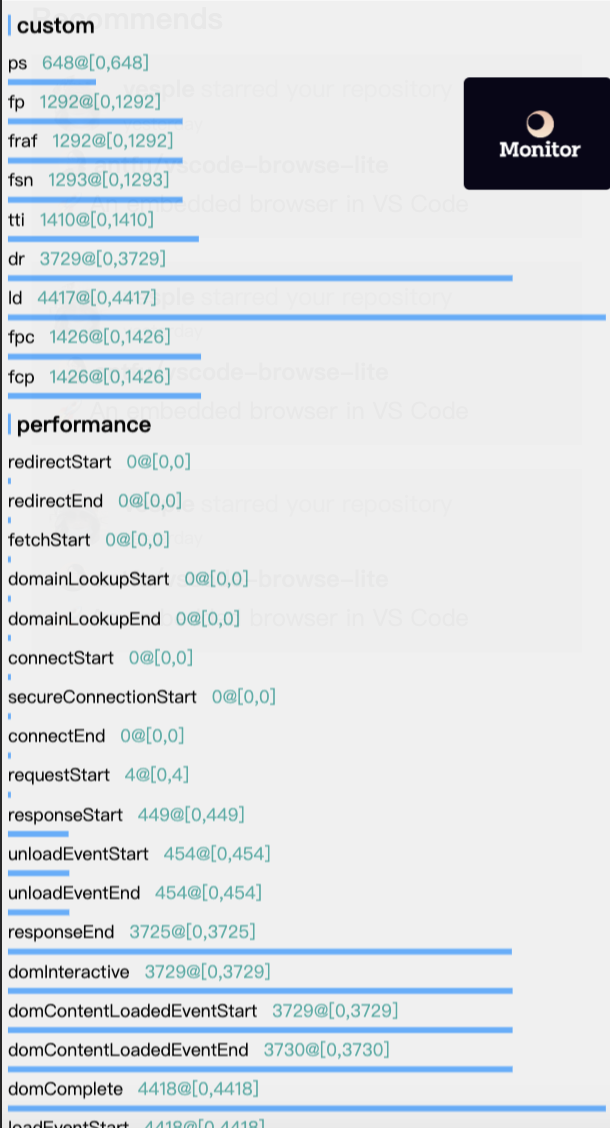
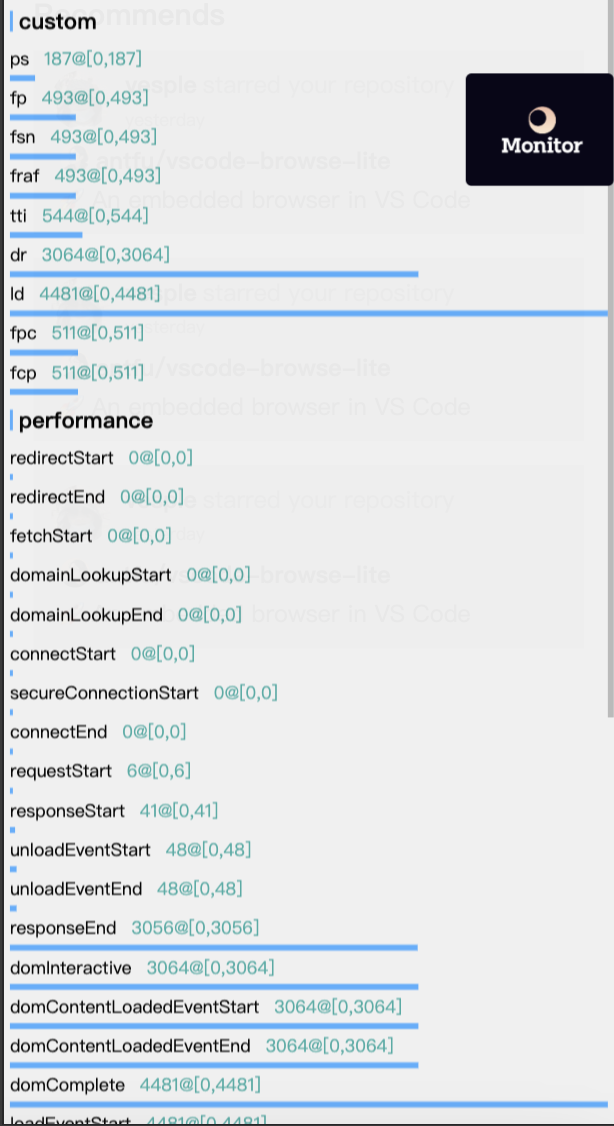
fix: build

Changed region(s): [[0.0, 0.0, 1.0, 1.0]]

diff --git a/packages/core/configs/rspack.server.config.js b/packages/core/configs/rspack.server.config.js
@@ -11,12 +11,13 @@ const { APP_PATH } = require("../constant");
 const WebpackDemandEntryPlugin = require("../cmd/dev/lazy-compiler/plugin");
 const { pageEntries } = require("./entry");
 const pageConfig = require("./page.config");
+const { __DEV__ } = require("../utils/node-env");
 
 /**
  * @type {import("webpack").Configuration}
  */
 const defaultConfig = {
-  mode: process.env.NODE_ENV || "development",
+  mode: __DEV__ ? "development" : "production",
   node: false,
   entry: {
     index: [getServerEntry(), path.resolve(cwd, "./server-entry.tsx")],
@@ -80,9 +81,10 @@ const defaultConfig = {
   },
   plugins: [
     new rspack.ProgressPlugin({ prefix: "server" }),
-    new WebpackDemandEntryPlugin({
-      pageEntries,
-    }),
+    __DEV__ &&
+      new WebpackDemandEntryPlugin({
+        pageEntries,
+      }),
   ],
   cache: false,
   experiments: {

diff --git a/packages/core/configs/rspack.client.config.js b/packages/core/configs/rspack.client.config.js
@@ -8,12 +8,13 @@ const WebpackDemandEntryPlugin = require("../cmd/dev/lazy-compiler/plugin");
 const { pageEntries } = require("./entry");
 const { CLIENT_OUTPUT_PATH } = require("../constant");
 const pageConfig = require("./page.config");
+const { __DEV__ } = require("../utils/node-env");
 
 /**
  * @type {import("webpack").Configuration}
  */
 const defaultConfig = {
-  mode: process.env.NODE_ENV || "development",
+  mode: __DEV__ ? "development" : 'production',
   node: false,
   entry: getClientEntries(),
   output: {
@@ -78,7 +79,7 @@ const defaultConfig = {
     }),
     new rspack.ProgressPlugin({ prefix: "client" }),
     new rspack.CssExtractRspackPlugin({}),
-    new WebpackDemandEntryPlugin({
+    __DEV__ && new WebpackDemandEntryPlugin({
       pageEntries,
     }),
   ],

diff --git a/packages/core/utils/node-env.js b/packages/core/utils/node-env.js
@@ -1,0 +1,5 @@
+const __DEV__ = process.env.NODE_ENV !== "production";
+
+module.exports = {
+  __DEV__,
+};
